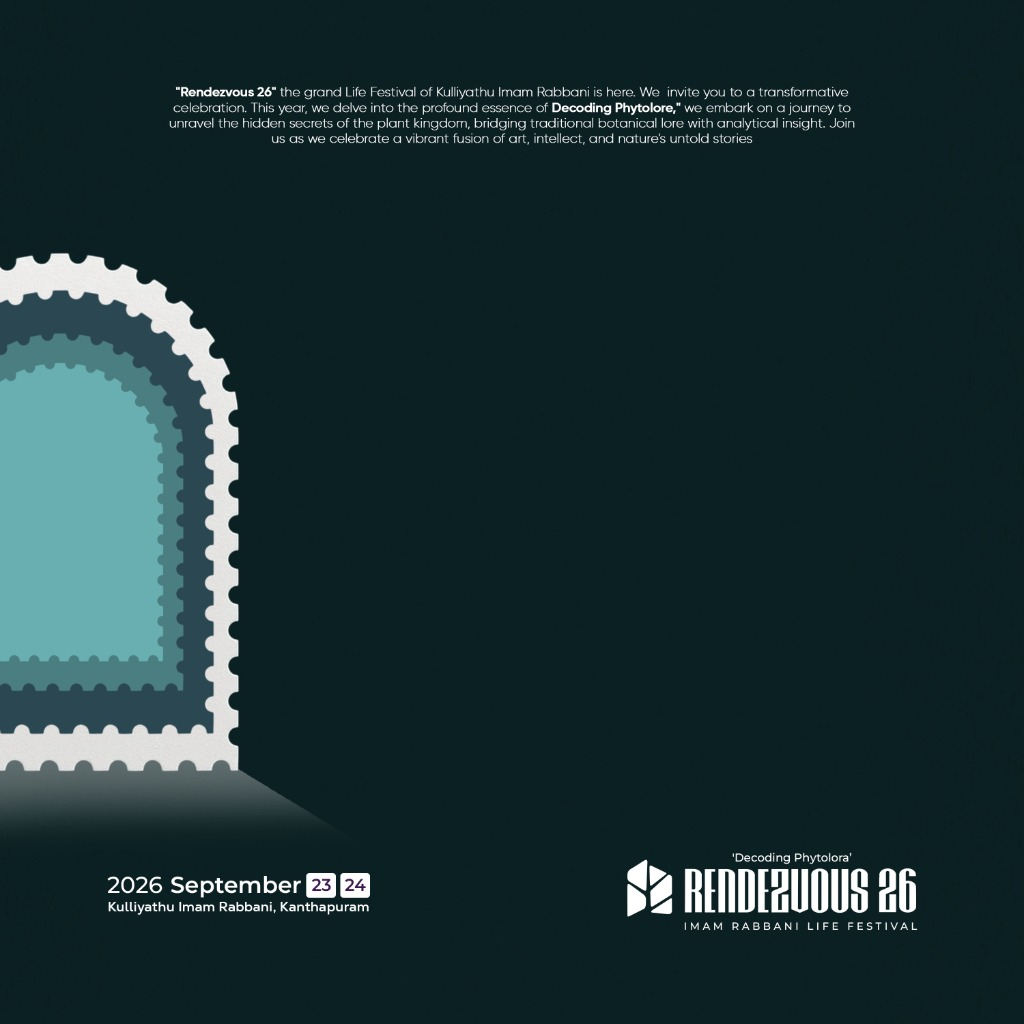
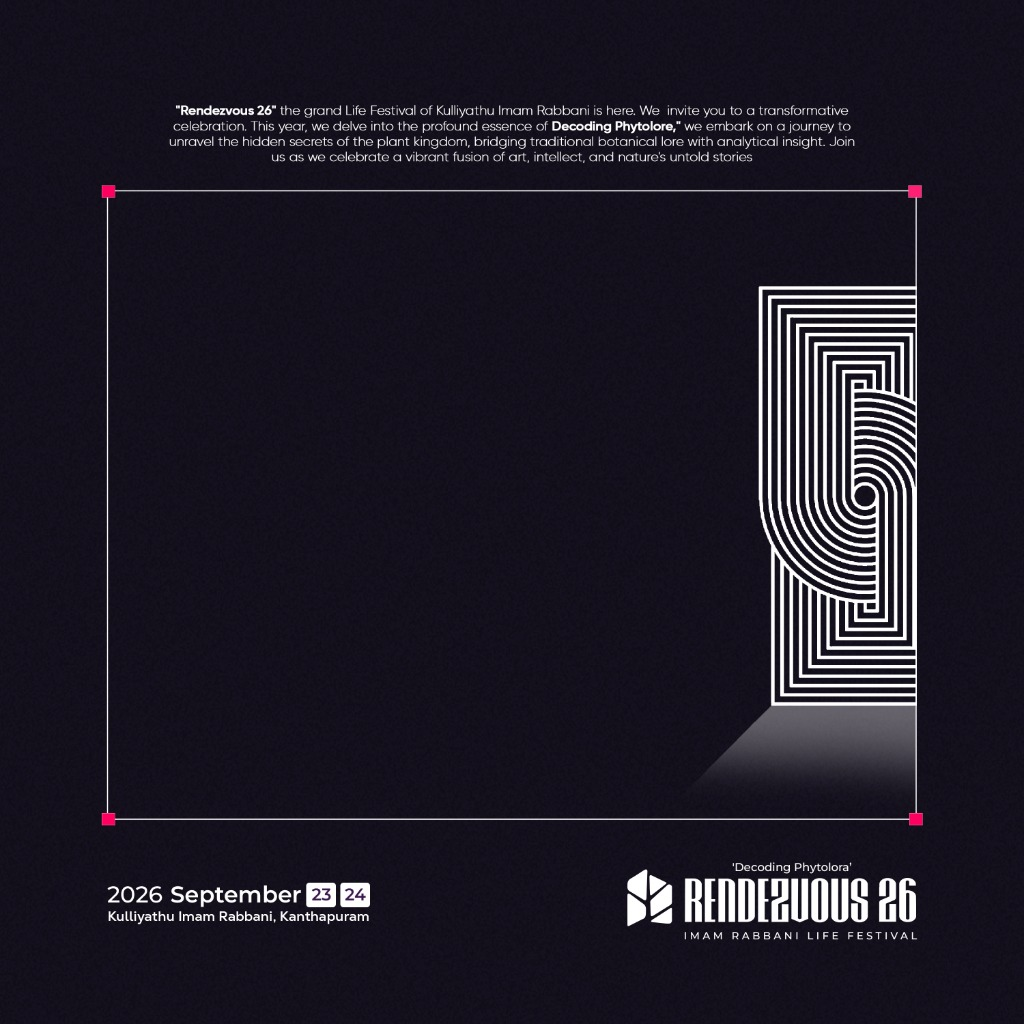
feat(poster): integrate theme 5 layout, independent poster override saving, and 180 result number range

diff --git a/src/components/PostersView.tsx b/src/components/PostersView.tsx
@@ -520,9 +520,105 @@ function getDefaultThemeConfig(themeIdx: number = 0): any {
     };
   }
 
-  // Theme 5 (Index 4) - Exact copy of Theme 1 (phytolore green)
+  // Theme 5 (Index 4) - Dark Phytolore Modern (Thunder ExtraLight 01, Sora & Fractul Alt, Pink accents)
   if (themeIdx === 4) {
-    return getDefaultThemeConfig(0);
+    return {
+      titleColor: '#ef066a',
+      winnerColor: '#ffffff',
+      unitColor: '#ef066a',
+      titleSize: 36,
+      resultLabelText: '',
+      resultLabelX: -9999,
+      resultLabelY: -9999,
+      resultLabelSize: 0,
+      resultLabelColor: '#ffffff',
+      resultNumX: 138,
+      resultNumY: 408,
+      resultNumSize: 105,
+      resultNumColor: '#ef066a',
+      resultNumFont: '200 "Thunder ExtraLight LC", "Thunder", sans-serif',
+      categorySize: 28,
+      categoryColor: '#ffffff',
+      categoryX: 240,
+      categoryY: 340,
+      categoryFont: '500 "Sora", sans-serif',
+      compNameX: 240,
+      compNameY: 405,
+      compNameSize: 68,
+      compNameColor: '#ef066a',
+      compNameFont: '600 "Sora", sans-serif',
+      campusNameX: 540,
+      campusNameY: 70,
+      campusNameSize: 28,
+      campusNameColor: '#ffffff',
+      campusNameFont: 'sans-serif',
+      showCampusName: false,
+      festNameX: 540,
+      festNameY: 120,
+      festNameSize: 36,
+      festNameColor: '#fbbf24',
+      festNameFont: 'sans-serif',
+      showFestName: false,
+      winnerSize: 34,
+      unitSize: 22,
+      rankSize: 30,
+      titleX: 540,
+      titleY: 110,
+      rank1BadgeX: 210,
+      rank1BadgeY: 498,
+      rank1NameX: 240,
+      rank1NameY: 498,
+      rank1UnitX: 240,
+      rank1UnitY: 524,
+      rank2BadgeX: 210,
+      rank2BadgeY: 578,
+      rank2NameX: 240,
+      rank2NameY: 578,
+      rank2UnitX: 240,
+      rank2UnitY: 604,
+      rank3BadgeX: 210,
+      rank3BadgeY: 663,
+      rank3NameX: 240,
+      rank3NameY: 663,
+      rank3UnitX: 240,
+      rank3UnitY: 689,
+      titleFont: '500 "Fractul Alt", sans-serif',
+      resultLabelFont: '500 "Fractul Alt", sans-serif',
+      winnerFont: '500 "Fractul Alt", sans-serif',
+      unitFont: '500 "Fractul Alt", sans-serif',
+      rankFont: '500 "Fractul Alt", sans-serif',
+      fontFamily: '500 "Fractul Alt", sans-serif',
+      uppercaseNames: false,
+      rankBadgeShape: 'none' as 'pill' | 'circle' | 'rectangle' | 'none',
+      rankBadgeShapeSize: 20,
+      rank1Color: '#ffffff',
+      rank2Color: '#ffffff',
+      rank3Color: '#ffffff',
+      rankTextColor: '#ffffff',
+      rank1Text: 'I',
+      rank2Text: 'II',
+      rank3Text: 'III',
+      showFooter: false,
+      showFooterBg: false,
+      footerLine1: '',
+      footerLine2: '',
+      campusNameUppercase: true,
+      festNameUppercase: true,
+      resultLabelUppercase: true,
+      resultNumUppercase: false,
+      categoryUppercase: false,
+      compNameUppercase: false,
+      winnerUppercase: false,
+      unitUppercase: false,
+      useTeamColors: false,
+      unitColors: {} as Record<string, string>,
+      unitLanguage: 'en',
+      unitArabicNames: {
+        'Sirafi Seafarers': 'TEAM السِّيرَافِي',
+        'Tabrizi Taraz': 'TEAM التَّبْرِيزِي',
+        'Zanzibari Souqs': 'TEAM الزَّنْجَبَارِي'
+      } as Record<string, string>,
+    };
   }
 
   return {
@@ -747,6 +843,7 @@ export default function PostersView({ user, token, eventSettings, onSettingsUpda
 
   const [localThemeConfigs, setLocalThemeConfigs] = useState<any>({});
   const [savingTemplate, setSavingTemplate] = useState(false);
+  const [savingThisPoster, setSavingThisPoster] = useState(false);
 
   useEffect(() => {
     if (selectedCompId) {
@@ -758,11 +855,10 @@ export default function PostersView({ user, token, eventSettings, onSettingsUpda
       const compOverride = (eventSettings?.posterOverrides && aComp?.name && eventSettings.posterOverrides[aComp.name]) ||
                            (eventSettings?.posterOverrides && selectedCompId && eventSettings.posterOverrides[selectedCompId]);
 
-      const baseTheme = { ...getDefaultThemeConfig(), ...(themeConfigs[themeIdx] || {}) };
+      const baseTheme = { ...getDefaultThemeConfig(themeIdx), ...(themeConfigs[themeIdx] || {}) };
       const mergedTheme = { ...baseTheme, ...(compOverride || {}) };
 
       setLocalThemeConfigs((prev: any) => ({
-        ...(themeConfigs || {}),
         ...prev,
         [themeIdx]: mergedTheme
       }));
@@ -885,7 +981,7 @@ export default function PostersView({ user, token, eventSettings, onSettingsUpda
 
   const handleSaveThisPosterOnly = async () => {
     if (!selectedCompId) return;
-    setSavingTemplate(true);
+    setSavingThisPoster(true);
     try {
       const aComp = competitions.find(c => c.id === selectedCompId);
       const aCat = aComp ? categories.find(cat => cat.id === aComp.categoryId) : null;
@@ -905,6 +1001,9 @@ export default function PostersView({ user, token, eventSettings, onSettingsUpda
         [selectedCompId]: individualConfig,
         [aComp?.name || '']: individualConfig
       };
+      if (aComp?.name && aComp.name.trim() !== aComp.name) {
+        updatedOverrides[aComp.name.trim()] = individualConfig;
+      }
 
       const res = await fetch('/api/settings', {
         method: 'PUT',
@@ -912,12 +1011,18 @@ export default function PostersView({ user, token, eventSettings, onSettingsUpda
         body: JSON.stringify({ posterOverrides: updatedOverrides })
       });
       if (!res.ok) throw new Error('Failed to save');
+
+      // Update in-memory eventSettings so UI does not lose overrides
+      if (eventSettings) {
+        (eventSettings as any).posterOverrides = updatedOverrides;
+      }
+
       alert(`Saved custom layout positions & text overrides specifically for poster "${aComp?.name}"!`);
       if (onSettingsUpdated) onSettingsUpdated();
     } catch (e) {
       alert('Failed to save poster override');
     } finally {
-      setSavingTemplate(false);
+      setSavingThisPoster(false);
     }
   };
 
@@ -1914,11 +2019,32 @@ export default function PostersView({ user, token, eventSettings, onSettingsUpda
                           <button
                             type="button"
                             onClick={() => {
-                              if (confirm('Reset poster layout and overrides to theme defaults?')) {
-                                const def = getDefaultThemeConfig();
+                              if (confirm('Reset this poster layout and text overrides to theme defaults?')) {
+                                const compIdx = getAnnouncementIndex(selectedCompId);
+                                const aComp = competitions.find(c => c.id === selectedCompId);
+                                const aCat = aComp ? categories.find(cat => cat.id === aComp.categoryId) : null;
+                                const themeIdx = getThemeIndexForResult(compIdx, aCat?.name, aCat?.id);
+                                const baseTheme = {
+                                  ...getDefaultThemeConfig(themeIdx),
+                                  ...(themeConfigs[themeIdx] || {})
+                                };
+                                delete (baseTheme as any).compNameOverride;
+                                delete (baseTheme as any).rank1NameOverride;
+                                delete (baseTheme as any).rank1UnitOverride;
+                                delete (baseTheme as any).rank2NameOverride;
+                                delete (baseTheme as any).rank2UnitOverride;
+                                delete (baseTheme as any).rank3NameOverride;
+                                delete (baseTheme as any).rank3UnitOverride;
+                                delete (baseTheme as any).rank1_2_NameOverride;
+                                delete (baseTheme as any).rank1_2_UnitOverride;
+                                delete (baseTheme as any).rank2_2_NameOverride;
+                                delete (baseTheme as any).rank2_2_UnitOverride;
+                                delete (baseTheme as any).rank3_2_NameOverride;
+                                delete (baseTheme as any).rank3_2_UnitOverride;
+
                                 setLocalThemeConfigs(prev => ({
                                   ...prev,
-                                  [0]: def
+                                  [themeIdx]: baseTheme
                                 }));
                               }
                             }}
@@ -1996,6 +2122,7 @@ export default function PostersView({ user, token, eventSettings, onSettingsUpda
                           <RangeControl label="Result Label Y" value={c.resultLabelY ?? 180} onChange={v => updateLocalConf('resultLabelY', v)} min={30} max={500} />
                           <RangeControl label="Result Number X" value={c.resultNumX ?? 600} onChange={v => updateLocalConf('resultNumX', v)} min={0} max={1080} />
                           <RangeControl label="Result Number Y" value={c.resultNumY ?? 180} onChange={v => updateLocalConf('resultNumY', v)} min={30} max={500} />
+                          <RangeControl label="Result Number Size" value={c.resultNumSize || 28} onChange={v => updateLocalConf('resultNumSize', v)} min={14} max={180} />
                           <RangeControl label="Category X" value={c.categoryX ?? 540} onChange={v => updateLocalConf('categoryX', v)} min={0} max={1080} />
                           <RangeControl label="Category Y" value={c.categoryY ?? 260} onChange={v => updateLocalConf('categoryY', v)} min={50} max={600} />
                           <RangeControl label="Competition X" value={c.compNameX ?? 540} onChange={v => updateLocalConf('compNameX', v)} min={0} max={1080} />
@@ -2067,15 +2194,15 @@ export default function PostersView({ user, token, eventSettings, onSettingsUpda
                         <>
                           <button
                             onClick={handleSaveThisPosterOnly}
-                            disabled={savingTemplate}
+                            disabled={savingThisPoster || savingTemplate}
                             className="w-full flex items-center justify-center gap-2 px-4 py-2.5 bg-emerald-600 hover:bg-emerald-700 text-white rounded-xl text-xs font-bold transition-colors disabled:opacity-50 shadow-sm"
                           >
                             <Save className="w-4 h-4" />
-                            {savingTemplate ? 'Saving...' : 'Save for THIS Poster Only'}
+                            {savingThisPoster ? 'Saving...' : 'Save for THIS Poster Only'}
                           </button>
                           <button
                             onClick={handleSaveTemplate}
-                            disabled={savingTemplate}
+                            disabled={savingThisPoster || savingTemplate}
                             className="w-full flex items-center justify-center gap-2 px-4 py-2 bg-slate-900 hover:bg-slate-800 text-white rounded-xl text-xs font-bold transition-colors disabled:opacity-50"
                           >
                             <Save className="w-4 h-4" />

diff --git a/src/components/PosterSettingsView.tsx b/src/components/PosterSettingsView.tsx
@@ -511,9 +511,105 @@ function getDefaultThemeConfig(themeIdx: number = 0): any {
     };
   }
 
-  // Theme 5 (Index 4) - Exact copy of Theme 1 (phytolore green)
+  // Theme 5 (Index 4) - Dark Phytolore Modern (Thunder ExtraLight 01, Sora & Fractul Alt, Pink accents)
   if (themeIdx === 4) {
-    return getDefaultThemeConfig(0);
+    return {
+      titleColor: '#ef066a',
+      winnerColor: '#ffffff',
+      unitColor: '#ef066a',
+      titleSize: 36,
+      resultLabelText: '',
+      resultLabelX: -9999,
+      resultLabelY: -9999,
+      resultLabelSize: 0,
+      resultLabelColor: '#ffffff',
+      resultNumX: 138,
+      resultNumY: 408,
+      resultNumSize: 105,
+      resultNumColor: '#ef066a',
+      resultNumFont: '200 "Thunder ExtraLight LC", "Thunder", sans-serif',
+      categorySize: 28,
+      categoryColor: '#ffffff',
+      categoryX: 240,
+      categoryY: 340,
+      categoryFont: '500 "Sora", sans-serif',
+      compNameX: 240,
+      compNameY: 405,
+      compNameSize: 68,
+      compNameColor: '#ef066a',
+      compNameFont: '600 "Sora", sans-serif',
+      campusNameX: 540,
+      campusNameY: 70,
+      campusNameSize: 28,
+      campusNameColor: '#ffffff',
+      campusNameFont: 'sans-serif',
+      showCampusName: false,
+      festNameX: 540,
+      festNameY: 120,
+      festNameSize: 36,
+      festNameColor: '#fbbf24',
+      festNameFont: 'sans-serif',
+      showFestName: false,
+      winnerSize: 34,
+      unitSize: 22,
+      rankSize: 30,
+      titleX: 540,
+      titleY: 110,
+      rank1BadgeX: 210,
+      rank1BadgeY: 498,
+      rank1NameX: 240,
+      rank1NameY: 498,
+      rank1UnitX: 240,
+      rank1UnitY: 524,
+      rank2BadgeX: 210,
+      rank2BadgeY: 578,
+      rank2NameX: 240,
+      rank2NameY: 578,
+      rank2UnitX: 240,
+      rank2UnitY: 604,
+      rank3BadgeX: 210,
+      rank3BadgeY: 663,
+      rank3NameX: 240,
+      rank3NameY: 663,
+      rank3UnitX: 240,
+      rank3UnitY: 689,
+      titleFont: '500 "Fractul Alt", sans-serif',
+      resultLabelFont: '500 "Fractul Alt", sans-serif',
+      winnerFont: '500 "Fractul Alt", sans-serif',
+      unitFont: '500 "Fractul Alt", sans-serif',
+      rankFont: '500 "Fractul Alt", sans-serif',
+      fontFamily: '500 "Fractul Alt", sans-serif',
+      uppercaseNames: false,
+      rankBadgeShape: 'none' as 'pill' | 'circle' | 'rectangle' | 'none',
+      rankBadgeShapeSize: 20,
+      rank1Color: '#ffffff',
+      rank2Color: '#ffffff',
+      rank3Color: '#ffffff',
+      rankTextColor: '#ffffff',
+      rank1Text: 'I',
+      rank2Text: 'II',
+      rank3Text: 'III',
+      showFooter: false,
+      showFooterBg: false,
+      footerLine1: '',
+      footerLine2: '',
+      campusNameUppercase: true,
+      festNameUppercase: true,
+      resultLabelUppercase: true,
+      resultNumUppercase: false,
+      categoryUppercase: false,
+      compNameUppercase: false,
+      winnerUppercase: false,
+      unitUppercase: false,
+      useTeamColors: false,
+      unitColors: {} as Record<string, string>,
+      unitLanguage: 'en',
+      unitArabicNames: {
+        'Sirafi Seafarers': 'TEAM السِّيرَافِي',
+        'Tabrizi Taraz': 'TEAM التَّبْرِيزِي',
+        'Zanzibari Souqs': 'TEAM الزَّنْجَبَارِي'
+      } as Record<string, string>,
+    };
   }
 
   return {

diff --git a/server/db.ts b/server/db.ts
@@ -418,6 +418,15 @@ async function _syncMongoNow(targetCollections?: string[]) {
             { upsert: true }
           ).catch(() => { }));
         }
+
+        const overrides = (db as any).posterOverrides || (db.eventSettings as any)?.posterOverrides;
+        if (overrides) {
+          tasks.push(mongoDb.collection('settings').replaceOne(
+            { _id: 'posterOverrides' as any },
+            { _id: 'posterOverrides', ...overrides },
+            { upsert: true }
+          ).catch(() => { }));
+        }
       }
 
       await Promise.all(tasks);
@@ -582,6 +591,13 @@ async function syncStateFromMongo(force: boolean = false) {
         if (doc._id === 'certificateTemplateConfig') {
           db.certificateTemplateConfig = { ...rest };
           if (db.eventSettings) db.eventSettings.certificateTemplateConfig = { ...rest };
+        }
+        if (doc._id === 'posterOverrides') {
+          const loadedOverrides = rest.overrides || rest;
+          (db as any).posterOverrides = { ...((db as any).posterOverrides || {}), ...loadedOverrides };
+          if (db.eventSettings) {
+            (db.eventSettings as any).posterOverrides = { ...((db.eventSettings as any).posterOverrides || {}), ...loadedOverrides };
+          }
         }
       }
     });

diff --git a/src/App.tsx b/src/App.tsx
@@ -210,7 +210,7 @@ export default function App() {
       case 'certificate-studio':
         return <CertificateSettingsView user={user} token={token} eventSettings={eventSettings} onSettingsUpdated={fetchEventConfig} />;
       case 'posters':
-        return <PostersView user={user} token={token} eventSettings={eventSettings} />;
+        return <PostersView user={user} token={token} eventSettings={eventSettings} onSettingsUpdated={fetchEventConfig} />;
       case 'poster-studio':
         return <PosterSettingsView user={user} token={token} eventSettings={eventSettings} onSettingsUpdated={fetchEventConfig} />;
       case 'highlights':
